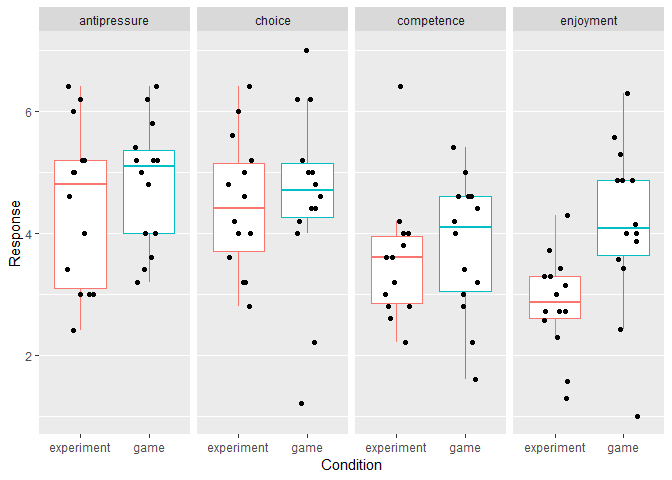
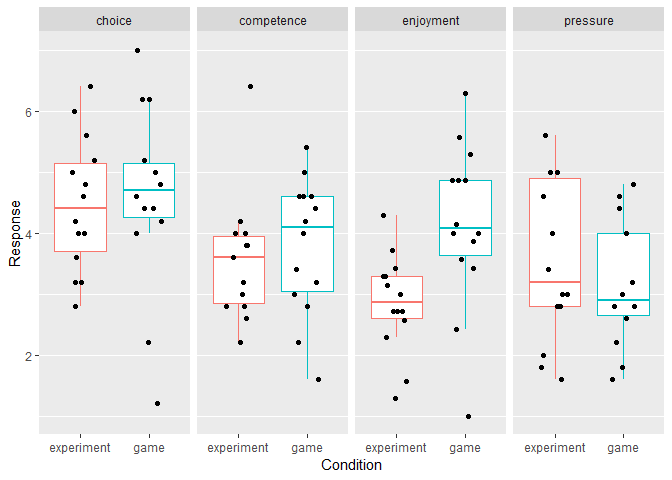
Using Pressure instead of Inverted (Anti) Pressure

diff --git a/Gamification_Analysis.md b/Gamification_Analysis.md
@@ -146,10 +146,10 @@ kable(summary(aovp(Performance ~ coaBlockIndex * COA * Condition, data= performa
 |                             |  Df |    R Sum Sq |  R Mean Sq | Iter |  Pr(Prob) |
 | --------------------------- | --: | ----------: | ---------: | ---: | --------: |
 | coaBlockIndex               |   1 |  2568.02094 | 2568.02094 | 5000 | 0.0000000 |
-| COA                         |   2 |  1589.65257 |  794.82629 | 5000 | 0.0002000 |
-| coaBlockIndex:COA           |   2 |   519.62942 |  259.81471 |  465 | 0.1956989 |
+| COA                         |   2 |  1589.65257 |  794.82629 | 5000 | 0.0000000 |
+| coaBlockIndex:COA           |   2 |   519.62942 |  259.81471 | 1503 | 0.0864937 |
 | Condition                   |   1 |  1683.42066 | 1683.42066 | 5000 | 0.0000000 |
-| coaBlockIndex:Condition     |   1 |    98.23754 |   98.23754 |   51 | 0.8039216 |
+| coaBlockIndex:Condition     |   1 |    98.23754 |   98.23754 |   51 | 1.0000000 |
 | COA:Condition               |   2 |    70.55535 |   35.27767 |   51 | 1.0000000 |
 | coaBlockIndex:COA:Condition |   2 |    28.10330 |   14.05165 |   51 | 1.0000000 |
 | Residuals                   | 324 | 47903.86285 |  147.85143 |   NA |        NA |
@@ -168,26 +168,26 @@ performance_coa %>%
 
     ## Warning: data coerced from tibble to data frame
 
-|                                                                                                                             |          bf |     error |
-| --------------------------------------------------------------------------------------------------------------------------- | ----------: | --------: |
-| Condition                                                                                                                   |    4.574903 | 0.0000000 |
-| COA                                                                                                                         |    5.234640 | 0.0000749 |
-| Condition + COA                                                                                                             |   27.131298 | 0.0124652 |
-| Condition + COA + Condition:COA                                                                                             |    1.997571 | 0.0286966 |
-| coaBlockIndex                                                                                                               |  189.259501 | 0.0000848 |
-| Condition + coaBlockIndex                                                                                                   | 1101.959926 | 0.0339303 |
-| COA + coaBlockIndex                                                                                                         | 1327.628024 | 0.0093174 |
-| Condition + COA + coaBlockIndex                                                                                             | 9067.301571 | 0.0501334 |
-| Condition + COA + Condition:COA + coaBlockIndex                                                                             |  676.641022 | 0.0337140 |
-| Condition + coaBlockIndex + Condition:coaBlockIndex                                                                         |   70.531195 | 0.0185891 |
-| Condition + COA + coaBlockIndex + Condition:coaBlockIndex                                                                   |  654.363103 | 0.0716340 |
-| Condition + COA + Condition:COA + coaBlockIndex + Condition:coaBlockIndex                                                   |   43.944193 | 0.0241684 |
-| COA + coaBlockIndex + COA:coaBlockIndex                                                                                     |  101.779512 | 0.0118232 |
-| Condition + COA + coaBlockIndex + COA:coaBlockIndex                                                                         |  681.835256 | 0.0179765 |
-| Condition + COA + Condition:COA + coaBlockIndex + COA:coaBlockIndex                                                         |   51.341597 | 0.0174603 |
-| Condition + COA + coaBlockIndex + Condition:coaBlockIndex + COA:coaBlockIndex                                               |   47.861849 | 0.0255261 |
-| Condition + COA + Condition:COA + coaBlockIndex + Condition:coaBlockIndex + COA:coaBlockIndex                               |    3.599807 | 0.0221650 |
-| Condition + COA + Condition:COA + coaBlockIndex + Condition:coaBlockIndex + COA:coaBlockIndex + Condition:COA:coaBlockIndex |    0.149378 | 0.0209928 |
+|                                                                                                                             |           bf |     error |
+| --------------------------------------------------------------------------------------------------------------------------- | -----------: | --------: |
+| Condition                                                                                                                   |    4.5749029 | 0.0000000 |
+| COA                                                                                                                         |    5.2346402 | 0.0000749 |
+| Condition + COA                                                                                                             |   26.5102198 | 0.0275938 |
+| Condition + COA + Condition:COA                                                                                             |    1.9471992 | 0.0215222 |
+| coaBlockIndex                                                                                                               |  189.2595007 | 0.0000848 |
+| Condition + coaBlockIndex                                                                                                   | 1062.7831853 | 0.0228747 |
+| COA + coaBlockIndex                                                                                                         | 1341.2630401 | 0.0089592 |
+| Condition + COA + coaBlockIndex                                                                                             | 8770.7716818 | 0.0208540 |
+| Condition + COA + Condition:COA + coaBlockIndex                                                                             |  829.6727385 | 0.1919701 |
+| Condition + coaBlockIndex + Condition:coaBlockIndex                                                                         |   70.1548702 | 0.0151655 |
+| Condition + COA + coaBlockIndex + Condition:coaBlockIndex                                                                   |  602.5383745 | 0.0364390 |
+| Condition + COA + Condition:COA + coaBlockIndex + Condition:coaBlockIndex                                                   |   43.7566423 | 0.0232401 |
+| COA + coaBlockIndex + COA:coaBlockIndex                                                                                     |  100.3171100 | 0.0107210 |
+| Condition + COA + coaBlockIndex + COA:coaBlockIndex                                                                         |  680.5419572 | 0.0157927 |
+| Condition + COA + Condition:COA + coaBlockIndex + COA:coaBlockIndex                                                         |   54.1677112 | 0.0312733 |
+| Condition + COA + coaBlockIndex + Condition:coaBlockIndex + COA:coaBlockIndex                                               |   47.0454599 | 0.0288672 |
+| Condition + COA + Condition:COA + coaBlockIndex + Condition:coaBlockIndex + COA:coaBlockIndex                               |    3.5985018 | 0.0217499 |
+| Condition + COA + Condition:COA + coaBlockIndex + Condition:coaBlockIndex + COA:coaBlockIndex + Condition:COA:coaBlockIndex |    0.1415888 | 0.0215311 |
 
 ``` r
 rm(performance_coa, performance_plot)
@@ -255,16 +255,16 @@ kable(summary(aovp(RT ~ coaBlockIndex * COA * Condition, data= RT_coa))[[1]])
 
     ## [1] "Settings:  unique SS : numeric variables centered"
 
-|                             |  Df |    R Sum Sq | R Mean Sq | Iter |  Pr(Prob) |
-| --------------------------- | --: | ----------: | --------: | ---: | --------: |
-| coaBlockIndex               |   1 |   8.5593621 | 8.5593621 | 5000 | 0.0000000 |
-| COA                         |   2 |   0.0060435 | 0.0030217 |   51 | 0.9607843 |
-| coaBlockIndex:COA           |   2 |   0.0254060 | 0.0127030 |   56 | 1.0000000 |
-| Condition                   |   1 |   3.4040437 | 3.4040437 | 5000 | 0.0052000 |
-| coaBlockIndex:Condition     |   1 |   0.0010744 | 0.0010744 |   51 | 1.0000000 |
-| COA:Condition               |   2 |   0.0053423 | 0.0026712 |   51 | 1.0000000 |
-| coaBlockIndex:COA:Condition |   2 |   0.5221628 | 0.2610814 |  547 | 0.7184644 |
-| Residuals                   | 324 | 163.7279790 | 0.5053333 |   NA |        NA |
+|                             |  Df |    R Sum Sq | R Mean Sq | Iter | Pr(Prob) |
+| --------------------------- | --: | ----------: | --------: | ---: | -------: |
+| coaBlockIndex               |   1 |   8.5593621 | 8.5593621 | 5000 |        0 |
+| COA                         |   2 |   0.0060435 | 0.0030217 |   51 |        1 |
+| coaBlockIndex:COA           |   2 |   0.0254060 | 0.0127030 |   51 |        1 |
+| Condition                   |   1 |   3.4040437 | 3.4040437 | 5000 |        0 |
+| coaBlockIndex:Condition     |   1 |   0.0010744 | 0.0010744 |   51 |        1 |
+| COA:Condition               |   2 |   0.0053423 | 0.0026712 |   51 |        1 |
+| coaBlockIndex:COA:Condition |   2 |   0.5221628 | 0.2610814 |   51 |        1 |
+| Residuals                   | 324 | 163.7279790 | 0.5053333 |   NA |       NA |
 
 **RT: Bayesian ANOVA**
 
@@ -284,22 +284,22 @@ RT_coa %>%
 | --------------------------------------------------------------------------------------------------------------------------- | ---------: | --------: |
 | Condition                                                                                                                   |  2.7634003 | 0.0000000 |
 | COA                                                                                                                         |  0.0326108 | 0.0001208 |
-| Condition + COA                                                                                                             |  0.0872533 | 0.0154950 |
-| Condition + COA + Condition:COA                                                                                             |  0.0054225 | 0.0301272 |
+| Condition + COA                                                                                                             |  0.0883085 | 0.0155336 |
+| Condition + COA + Condition:COA                                                                                             |  0.0051862 | 0.0141986 |
 | coaBlockIndex                                                                                                               | 27.0903428 | 0.0000054 |
-| Condition + coaBlockIndex                                                                                                   | 84.9964982 | 0.0174962 |
-| COA + coaBlockIndex                                                                                                         |  1.0292044 | 0.1420072 |
-| Condition + COA + coaBlockIndex                                                                                             |  2.7060148 | 0.0132721 |
-| Condition + COA + Condition:COA + coaBlockIndex                                                                             |  0.1644377 | 0.0250486 |
-| Condition + coaBlockIndex + Condition:coaBlockIndex                                                                         |  4.7942244 | 0.0616054 |
-| Condition + COA + coaBlockIndex + Condition:coaBlockIndex                                                                   |  0.1421608 | 0.0250814 |
-| Condition + COA + Condition:COA + coaBlockIndex + Condition:coaBlockIndex                                                   |  0.0081792 | 0.0212815 |
-| COA + coaBlockIndex + COA:coaBlockIndex                                                                                     |  0.0102685 | 0.0097456 |
-| Condition + COA + coaBlockIndex + COA:coaBlockIndex                                                                         |  0.0321199 | 0.0150075 |
-| Condition + COA + Condition:COA + coaBlockIndex + COA:coaBlockIndex                                                         |  0.0020222 | 0.0276981 |
-| Condition + COA + coaBlockIndex + Condition:coaBlockIndex + COA:coaBlockIndex                                               |  0.0017268 | 0.0282693 |
-| Condition + COA + Condition:COA + coaBlockIndex + Condition:coaBlockIndex + COA:coaBlockIndex                               |  0.0001034 | 0.0391212 |
-| Condition + COA + Condition:COA + coaBlockIndex + Condition:coaBlockIndex + COA:coaBlockIndex + Condition:COA:coaBlockIndex |  0.0000046 | 0.0489720 |
+| Condition + coaBlockIndex                                                                                                   | 85.2642734 | 0.0125519 |
+| COA + coaBlockIndex                                                                                                         |  0.8701515 | 0.0125793 |
+| Condition + COA + coaBlockIndex                                                                                             |  2.7134872 | 0.0220237 |
+| Condition + COA + Condition:COA + coaBlockIndex                                                                             |  0.1652246 | 0.0173614 |
+| Condition + coaBlockIndex + Condition:coaBlockIndex                                                                         |  4.7191561 | 0.0591977 |
+| Condition + COA + coaBlockIndex + Condition:coaBlockIndex                                                                   |  0.1387329 | 0.0143291 |
+| Condition + COA + Condition:COA + coaBlockIndex + Condition:coaBlockIndex                                                   |  0.0112556 | 0.2164338 |
+| COA + coaBlockIndex + COA:coaBlockIndex                                                                                     |  0.0105425 | 0.0104219 |
+| Condition + COA + coaBlockIndex + COA:coaBlockIndex                                                                         |  0.0347163 | 0.0476607 |
+| Condition + COA + Condition:COA + coaBlockIndex + COA:coaBlockIndex                                                         |  0.0020289 | 0.0325059 |
+| Condition + COA + coaBlockIndex + Condition:coaBlockIndex + COA:coaBlockIndex                                               |  0.0017596 | 0.0221032 |
+| Condition + COA + Condition:COA + coaBlockIndex + Condition:coaBlockIndex + COA:coaBlockIndex                               |  0.0001016 | 0.0255693 |
+| Condition + COA + Condition:COA + coaBlockIndex + Condition:coaBlockIndex + COA:coaBlockIndex + Condition:COA:coaBlockIndex |  0.0000044 | 0.0369530 |
 
 ``` r
 rm(RT_coa, RT_plot)
@@ -371,11 +371,11 @@ kable(summary(aovp(`Block Score` ~ coaBlockIndex * COA * Condition, data= score_
 | --------------------------- | --: | -----------: | ---------: | ---: | --------: |
 | coaBlockIndex               |   1 |   56330349.0 | 56330349.0 | 5000 | 0.0000000 |
 | COA                         |   2 |   60049892.9 | 30024946.4 | 5000 | 0.0000000 |
-| coaBlockIndex:COA           |   2 |   12342389.1 |  6171194.5 | 2959 | 0.0672525 |
-| Condition                   |   1 |    5722164.0 |  5722164.0 |  504 | 0.1666667 |
-| coaBlockIndex:Condition     |   1 |      13645.8 |    13645.8 |   51 | 0.8627451 |
-| COA:Condition               |   2 |    4163687.5 |  2081843.7 |  591 | 0.5922166 |
-| coaBlockIndex:COA:Condition |   2 |     633022.2 |   316511.1 |   61 | 0.9672131 |
+| coaBlockIndex:COA           |   2 |   12342389.1 |  6171194.5 |  442 | 0.3552036 |
+| Condition                   |   1 |    5722164.0 |  5722164.0 | 1256 | 0.0740446 |
+| coaBlockIndex:Condition     |   1 |      13645.8 |    13645.8 |   51 | 1.0000000 |
+| COA:Condition               |   2 |    4163687.5 |  2081843.7 |  184 | 0.7228261 |
+| coaBlockIndex:COA:Condition |   2 |     633022.2 |   316511.1 |   51 | 1.0000000 |
 | Residuals                   | 324 | 1145430033.5 |  3535277.9 |   NA |        NA |
 
 **Score: Bayesian ANOVA**
@@ -396,22 +396,22 @@ score_coa %>%
 | --------------------------------------------------------------------------------------------------------------------------- | -----------: | --------: |
 | Condition                                                                                                                   |    0.2463402 | 0.0000003 |
 | COA                                                                                                                         |   53.8523013 | 0.0000876 |
-| Condition + COA                                                                                                             |   13.8392205 | 0.0266332 |
-| Condition + COA + Condition:COA                                                                                             |    1.3238299 | 0.0273656 |
+| Condition + COA                                                                                                             |   13.4400577 | 0.0194179 |
+| Condition + COA + Condition:COA                                                                                             |    1.2724966 | 0.0163268 |
 | coaBlockIndex                                                                                                               |   55.7763590 | 0.0000041 |
-| Condition + coaBlockIndex                                                                                                   |   13.7998199 | 0.0111552 |
-| COA + coaBlockIndex                                                                                                         | 4465.8437694 | 0.0117079 |
-| Condition + COA + coaBlockIndex                                                                                             | 1191.8323263 | 0.0204847 |
-| Condition + COA + Condition:COA + coaBlockIndex                                                                             |  117.6163853 | 0.0261022 |
-| Condition + coaBlockIndex + Condition:coaBlockIndex                                                                         |    0.7218411 | 0.0309177 |
-| Condition + COA + coaBlockIndex + Condition:coaBlockIndex                                                                   |   58.2110359 | 0.0221130 |
-| Condition + COA + Condition:COA + coaBlockIndex + Condition:coaBlockIndex                                                   |    5.8272815 | 0.0337759 |
-| COA + coaBlockIndex + COA:coaBlockIndex                                                                                     |  288.9664682 | 0.0213403 |
-| Condition + COA + coaBlockIndex + COA:coaBlockIndex                                                                         |   75.1487702 | 0.0267673 |
-| Condition + COA + Condition:COA + coaBlockIndex + COA:coaBlockIndex                                                         |    7.3502517 | 0.0190246 |
-| Condition + COA + coaBlockIndex + Condition:coaBlockIndex + COA:coaBlockIndex                                               |    3.6927104 | 0.0229523 |
-| Condition + COA + Condition:COA + coaBlockIndex + Condition:coaBlockIndex + COA:coaBlockIndex                               |    0.3547936 | 0.0181434 |
-| Condition + COA + Condition:COA + coaBlockIndex + Condition:coaBlockIndex + COA:coaBlockIndex + Condition:COA:coaBlockIndex |    0.0215046 | 0.0556946 |
+| Condition + coaBlockIndex                                                                                                   |   14.0161539 | 0.0158056 |
+| COA + coaBlockIndex                                                                                                         | 4580.7665690 | 0.0212503 |
+| Condition + COA + coaBlockIndex                                                                                             | 1214.6783625 | 0.0203006 |
+| Condition + COA + Condition:COA + coaBlockIndex                                                                             |  123.2494771 | 0.0607180 |
+| Condition + coaBlockIndex + Condition:coaBlockIndex                                                                         |    0.7729100 | 0.1265104 |
+| Condition + COA + coaBlockIndex + Condition:coaBlockIndex                                                                   |   59.9744839 | 0.0306614 |
+| Condition + COA + Condition:COA + coaBlockIndex + Condition:coaBlockIndex                                                   |    5.5625822 | 0.0204364 |
+| COA + coaBlockIndex + COA:coaBlockIndex                                                                                     |  279.1508049 | 0.0233573 |
+| Condition + COA + coaBlockIndex + COA:coaBlockIndex                                                                         |   71.7659024 | 0.0157168 |
+| Condition + COA + Condition:COA + coaBlockIndex + COA:coaBlockIndex                                                         |    7.5434911 | 0.0273868 |
+| Condition + COA + coaBlockIndex + Condition:coaBlockIndex + COA:coaBlockIndex                                               |    3.6665616 | 0.0214184 |
+| Condition + COA + Condition:COA + coaBlockIndex + Condition:coaBlockIndex + COA:coaBlockIndex                               |    0.3787772 | 0.0451672 |
+| Condition + COA + Condition:COA + coaBlockIndex + Condition:coaBlockIndex + COA:coaBlockIndex + Condition:COA:coaBlockIndex |    0.0211337 | 0.0938208 |
 
 ``` r
 rm(score_coa, score_plot)
@@ -420,9 +420,11 @@ rm(score_coa, score_plot)
 # Post-study questionnaires
 
 ``` r
-questionnaire <- suppressMessages(read_csv2(file.path('Questionnaire', 'Questionnaire_ErsteTestung_ohneIFN_pressure invertiert_ohne pressure.csv'))) %>%
+questionnaire <- suppressMessages(read_csv2(file.path('Questionnaire', 'Questionnaire_ErsteTestung_ohneIFN.csv'))) %>%
   ungroup() %>%
-  mutate(Condition= as.factor(Condition))
+  mutate(Condition= as.factor(Condition),
+         Condition= fct_recode(Condition, 'experiment'= '2', 'game'= '1'), 
+         Condition= fct_relevel(Condition, 'experiment'))
 ```
 
 ## Gamer/Non-gamer
@@ -474,9 +476,9 @@ IM <- questionnaire %>%
   mutate(enjoyment =  ((IM01_01 + IM01_05 + IM01_08 + IM01_10 + IM01_14 + IM01_17 + IM01_20)/7),
          competence = ((IM01_04 + IM01_07 + IM01_12 + IM01_16 + IM01_22)/5),
          choice = ((IM01_03 + IM01_11 + IM01_15 + IM01_19 + IM01_21)/5),
-         antipressure = ((IM01_02_i + IM01_06_i + IM01_09_i + IM01_13_i + IM01_18_i)/5)) %>%
+         pressure =((IM01_02 + IM01_06 + IM01_09 + IM01_13 + IM01_18)/5)) %>%
   
-  select(Observer, Condition, enjoyment, competence, choice, antipressure) %>%
+  select(Observer, Condition, enjoyment, competence, choice, pressure) %>%
   gather(key= "Subscale", value = "Response", -Observer, -Condition)
 
 oneway_permutation_test <- function(subscaleDF){
@@ -495,12 +497,12 @@ IM %>%
   kable(.)
 ```
 
-| Subscale     |           Z |    pvalue | p(adjusted) |
-| :----------- | ----------: | --------: | ----------: |
-| antipressure | \-0.8032385 | 0.4218369 |   1.0000000 |
-| choice       | \-0.2628970 | 0.7926300 |   1.0000000 |
-| competence   | \-0.5404975 | 0.5888540 |   1.0000000 |
-| enjoyment    | \-2.7117838 | 0.0066922 |   0.0267689 |
+| Subscale   |           Z |    pvalue | p(adjusted) |
+| :--------- | ----------: | --------: | ----------: |
+| choice     | \-0.2628970 | 0.7926300 |   1.0000000 |
+| competence | \-0.5404975 | 0.5888540 |   1.0000000 |
+| enjoyment  | \-2.7117838 | 0.0066922 |   0.0267689 |
+| pressure   |   0.8032385 | 0.4218369 |   1.0000000 |
 
 ``` r
 IM_plot <- IM %>% ggplot(aes(x= Condition, y= Response, color= Condition)) +
